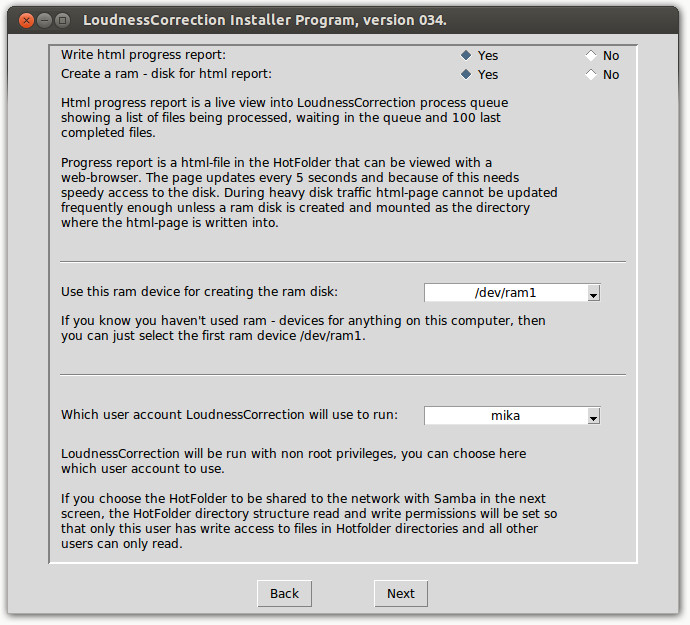
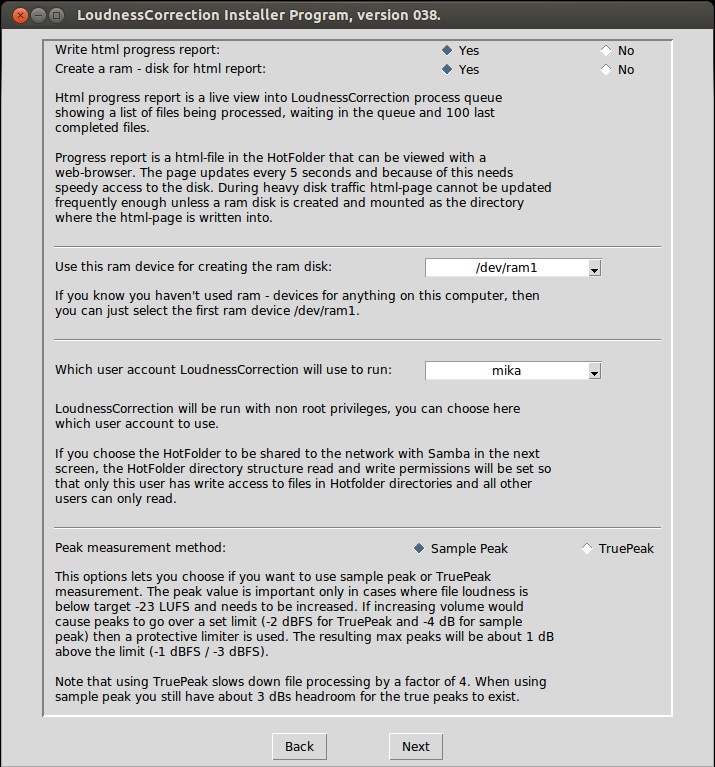
Documentation -------------- - Added the new window in the installer that lets user select between sample peak and TruePeak measurement.
LoudnessCorrection Version 154
-------------------------------
- Bugfix: Added printing of peak_measurement method In debug - mode. I forgot to do that in the last version :)

installer 038
--------------
- Bugfix: LoudnessCorrection.py was not installed to /usr/bin/ if user after installation navigated back through windows.
- Added the possibility to select between sample peak and TruePeak measurement.

diff --git a/Documentation/FreeLCS_1.0_User_Manual.html b/Documentation/FreeLCS_1.0_User_Manual.html
@@ -302,13 +302,32 @@
         the ram disk. You need to change the default setting of "/dev/ram1" here
         only if you know you have created other ram-disks for other purposes and
         you know that device "/dev/ram1" is already used for something else.</li>
-      <li>Lastly you can select which user account is used when loudness
+      <li>Then you can select which user account is used when loudness
         correction and heartbeat checker programs are run. These two programs
         are always run as an "unprivileged" user. If you only created one user,
         then this user is used by default.<br>
       </li>
-      <li>If you are not sure what to select on this window then just leave the
-        defaults as they are and click "Next". Defaults are ok for most users :)<br>
+      <li>If you are not sure what to select for this options then just leave
+        the defaults as they are. Defaults are ok for most users :)</li>
+      <li>The last option lets you select which peak measurement method you want
+        to use: sample peak or TruePeak. TruePeak is a method that takes into
+        account invisible peaks that might exist between samples. These peaks
+        can go above the maximum allowed 0 dBFS and cause distortion in AD -
+        converters. TruePeak measurement finds these hidden peaks and gives the
+        true maximum peak value in a file. TruePeak calculation slows down file
+        processing by a factor of 4. Sample peak simply finds the highest sample
+        value in the file and uses that as the highest peak value.<br>
+      </li>
+      <li>The peak value is only important when loudness of a file falls below
+        the target -23 LUFS level and needs to be increased. There is the
+        possibility that peaks will distort after the gain correction. In these
+        cases a protective limiter is used. If peak value after gain correction
+        would go over a set limit (-4 dBFS for sample peaks and -2 dBFS for
+        TruePeaks), then the file is limited before gain correction. The
+        resulting peaks after gain correction will be max. 1 dB higher than the
+        set limit resulting in max -3 dBFS / -1 dBFS peaks. Note that if you use
+        sample peak, there will always be 3 dB headroom for the invisible peaks
+        to exist and distortion is very unlikely.<br>
       </li>
     </ul>
     <p><br>

diff --git a/Documentation/index.html b/Documentation/index.html
@@ -22,7 +22,9 @@
     libebur128, gnuplot, FFmpeg, sox).<br>
     <br>
     <h3><strong>News:</strong></h3>
-    <strong>2012.07.08:</strong> First public release of FreeLCS 1.00.<br>
+    <strong>2012.07.16:</strong> Bugfix release 1.01. Also added the possibility
+    to select between sample peak and TruePeak measurement in the installer.<strong><br>
+      2012.07.08:</strong> First public release of FreeLCS 1.00.<br>
     <br>
     <h2> <a id="Features">Features</a></h2>
     <ul>
@@ -61,8 +63,8 @@
     <img title="Example: Loudness history graphics" src="Pictures/Beethoven-Coriolan_Overture_Op_62.wav-Loudness_Results_Graphics.jpg"><br>
     <br>
     <br>
-    <a href="http://sourceforge.net/projects/freelcs/">Click here to go to the
-      download page (User manual is included in the download)</a><br>
+    <a href="https://sourceforge.net/projects/freelcs/files/">Click here to go
+      to the download page (User manual is included in the download)</a><br>
     <br>
     <a href="FreeLCS_1.0_User_Manual.html">Click here to go to the User manual.</a><br>
     <br>

diff --git a/installer.py b/installer.py
@@ -26,7 +26,7 @@ import email.mime.text
 import email.mime.multipart
 import tempfile
 
-version = '037'
+version = '038'
 
 ###################################
 # Function definitions start here #
@@ -1036,10 +1036,11 @@ def install_init_scripts_and_config_files(*args):
 	global ffmpeg_path
 	global gnuplot_path
 	global all_ip_addresses_of_the_machine
+	global peak_measuring_method
 	
 	put_email_details_in_a_dictionary()
 
-	all_settings_dict = {'language' : language.get(), 'english' : english, 'finnish' : finnish, 'target_path' : target_path.get(), 'hotfolder_path' : hotfolder_path.get(), \
+	all_settings_dict = { 'language' : language.get(), 'english' : english, 'finnish' : finnish, 'target_path' : target_path.get(), 'hotfolder_path' : hotfolder_path.get(), \
 	'directory_for_temporary_files' : directory_for_temporary_files.get(), 'directory_for_results' : directory_for_results.get(), 'delay_between_directory_reads' : int(delay_between_directory_reads), \
 	'number_of_processor_cores' : int(number_of_processor_cores.get()), 'file_expiry_time' : int(file_expiry_time), 'natively_supported_file_formats' : natively_supported_file_formats, \
 	'libebur128_path' : loudness_path, 'ffmpeg_output_format' : ffmpeg_output_format, 'silent' : silent, 'write_html_progress_report' : true_false_string[write_html_progress_report.get()], \
@@ -1047,7 +1048,7 @@ def install_init_scripts_and_config_files(*args):
 	'directory_for_error_logs' : directory_for_error_logs.get(), 'send_error_messages_to_logfile' : send_error_messages_to_logfile, 'heartbeat' : true_false_string[heartbeat.get()], \
 	'heartbeat_file_name' : heartbeat_file_name, 'heartbeat_write_interval' : int(heartbeat_write_interval), 'email_sending_details' : email_sending_details, \
 	'send_error_messages_by_email' : true_false_string[send_error_messages_by_email.get()], 'where_to_send_error_messages' : where_to_send_error_messages, \
-	'config_file_created_by_installer_version' : version}
+	'config_file_created_by_installer_version' : version, 'peak_measuring_method' : peak_measuring_method }
 
 	# Get the total number of items in settings dictionary and save the number in the dictionary. The number can be used for degugging settings.
 	number_of_all_items_in_dictionary = len(all_settings_dict)
@@ -1076,6 +1077,7 @@ def install_init_scripts_and_config_files(*args):
 		print()
 		print('natively_supported_file_formats =', all_settings_dict['natively_supported_file_formats'])
 		print('ffmpeg_output_format =', all_settings_dict['ffmpeg_output_format'])
+		print('peak_measuring_method =', all_settings_dict['peak_measuring_method'])
 		print()	
 		print('silent =', all_settings_dict['silent'])
 		print()	
@@ -1550,6 +1552,10 @@ def install_init_scripts_and_config_files(*args):
 	
 	# Our scripts were installed successfully, update the label the to tell it to the user.
 	loudnesscorrection_scripts_are_installed.set('Installed')
+	
+	# Disable Back - button since navigating back to the previous window and back here would delete /usr/bin/LoudnessCorrection.py. The previous window copies this file to test our root - password and then deletes it.
+	seventh_window_back_button['state'] = 'disabled'
+	
 	return(False) # False means 'No errors happened everything was installed successfully :)'.
 	
 def test_if_root_password_is_valid(*args):
@@ -2513,6 +2519,21 @@ def get_ip_addresses_of_the_host_machine():
 		print('stderr:', stderr)
 		print('all_ip_addresses_of_the_machine =', all_ip_addresses_of_the_machine)
 
+def set_sample_peak_measurement_method(*args):
+	
+	global peak_measuring_method
+	
+	if sample_peak.get() == True:
+		peak_measuring_method = '--peak=sample'
+	else:
+		peak_measuring_method = '--peak=true'
+	
+	if debug == True:
+		true_false_string = [False, True]
+		print()
+		print('sample_peak =', true_false_string[sample_peak.get()])
+		print('peak_measuring_method =', peak_measuring_method)
+
 
 ###############################
 # Main program starts here :) #
@@ -2560,6 +2581,9 @@ root_password_was_not_accepted_message = tkinter.StringVar()
 use_samba  = tkinter.BooleanVar()
 use_samba.set(True)
 web_page_name = tkinter.StringVar()
+sample_peak = tkinter.BooleanVar()
+sample_peak.set(True)
+
 # Define variables that will be used as the text content on seventh window. The variables can hold one of two values: 'Installed' / 'Not Installed'.
 ffmpeg_is_installed = tkinter.StringVar()
 sox_is_installed = tkinter.StringVar()
@@ -2632,6 +2656,7 @@ eight_window_textwidget_text_content  = ''
 all_installation_messages = ''
 all_ip_addresses_of_the_machine = []
 all_ip_addresses_of_the_machine = get_ip_addresses_of_the_host_machine()
+peak_measuring_method = '--peak=sample'
 
 # Get the directory the os uses for storing temporary files.
 directory_for_os_temporary_files = tempfile.gettempdir()
@@ -3139,7 +3164,7 @@ twentyfirst_label.grid(column=0, row=3, pady=10, padx=10, columnspan=4, sticky=(
 
 # Define a horizontal line to space out groups of rows.
 fourth_window_separator_1 = tkinter.ttk.Separator(fourth_frame_child_frame_1, orient=tkinter.HORIZONTAL)
-fourth_window_separator_1.grid(column=0, row=4, padx=10, pady=20, columnspan=5, sticky=(tkinter.W, tkinter.E))
+fourth_window_separator_1.grid(column=0, row=4, padx=10, pady=10, columnspan=5, sticky=(tkinter.W, tkinter.E))
 
 # Ram device name.
 fourth_window_label_3 = tkinter.ttk.Label(fourth_frame_child_frame_1, text='Use this ram device for creating the ram disk:')
@@ -3162,7 +3187,7 @@ fourth_window_label_4.grid(column=0, row=6, columnspan=4, pady=10, padx=10, stic
 
 # Define a horizontal line to space out groups of rows.
 fourth_window_separator_1 = tkinter.ttk.Separator(fourth_frame_child_frame_1, orient=tkinter.HORIZONTAL)
-fourth_window_separator_1.grid(column=0, row=7, padx=10, pady=20, columnspan=5, sticky=(tkinter.W, tkinter.E))
+fourth_window_separator_1.grid(column=0, row=7, padx=10, pady=10, columnspan=5, sticky=(tkinter.W, tkinter.E))
 
 # Choose which username LoudnessCorrection will run under.
 fourth_window_label_5 = tkinter.ttk.Label(fourth_frame_child_frame_1, text='Which user account LoudnessCorrection will use to run:')
@@ -3182,11 +3207,27 @@ username_combobox.grid(column=3, row=8, columnspan=2, pady=10, padx=10, sticky=(
 fourth_window_label_7 = tkinter.ttk.Label(fourth_frame_child_frame_1, wraplength=text_wrap_length_in_pixels, text='LoudnessCorrection will be run with non root privileges, you can choose here which user account to use.\n\nIf you choose the HotFolder to be shared to the network with Samba in the next screen, the HotFolder directory structure read and write permissions will be set so that only this user has write access to files in Hotfolder directories and all other users can only read.')
 fourth_window_label_7.grid(column=0, row=9, columnspan=4, pady=10, padx=10, sticky=(tkinter.W, tkinter.N))
 
+# Define a horizontal line to space out groups of rows.
+fourth_window_separator_1 = tkinter.ttk.Separator(fourth_frame_child_frame_1, orient=tkinter.HORIZONTAL)
+fourth_window_separator_1.grid(column=0, row=10, padx=10, pady=10, columnspan=5, sticky=(tkinter.W, tkinter.E))
+
+# Peak metering settings
+fourth_window_label_1 = tkinter.ttk.Label(fourth_frame_child_frame_1, text='Peak measurement method:')
+fourth_window_label_1.grid(column=0, row=11, columnspan=2, padx=10, sticky=(tkinter.W, tkinter.N))
+sample_peak_radiobutton = tkinter.ttk.Radiobutton(fourth_frame_child_frame_1, text='Sample Peak', variable=sample_peak, value=True, command=set_sample_peak_measurement_method)
+true_peak_radiobutton = tkinter.ttk.Radiobutton(fourth_frame_child_frame_1, text='TruePeak', variable=sample_peak, value=False, command=set_sample_peak_measurement_method)
+sample_peak_radiobutton.grid(column=3, row=11, padx=15)
+true_peak_radiobutton.grid(column=4, row=11, padx=15)
+
+# Some explanatory texts.
+peak_measurement_label = tkinter.ttk.Label(fourth_frame_child_frame_1, wraplength=text_wrap_length_in_pixels, text='This options lets you choose if you want to use sample peak or TruePeak measurement. The peak value is important only in cases where file loudness is below target -23 LUFS and needs to be increased. If increasing volume would cause peaks to go over a set limit (-2 dBFS for TruePeak and -4 dB for sample peak) then a protective limiter is used. The resulting max peaks will be about 1 dB above the limit (-1 dBFS / -3 dBFS).\n\nNote that using TruePeak slows down file processing by a factor of 4. When using sample peak you still have about 3 dBs headroom for the true peaks to exist.')
+peak_measurement_label.grid(column=0, row=12, pady=10, padx=10, columnspan=4, sticky=(tkinter.W, tkinter.N))
+
 # Create the buttons for the frame
 fourth_window_back_button = tkinter.Button(fourth_frame, text = "Back", command = call_third_frame_on_top)
 fourth_window_back_button.grid(column=1, row=1, padx=30, pady=10, sticky=(tkinter.E, tkinter.N))
-
 fourth_window_next_button = tkinter.Button(fourth_frame, text = "Next", command = call_fifth_frame_on_top)
+
 # If we were no successful in getting the list of ram device names from the os and create_ram_disk = True, disable the next button.
 if (len(list_of_ram_devices) == 0) and (create_a_ram_disk_for_html_report.get() == True):
 	fourth_window_next_button['state'] = 'disabled'

diff --git a/LoudnessCorrection.py b/LoudnessCorrection.py
@@ -34,7 +34,7 @@ import email.mime.multipart
 import pickle
 import math
 
-version = '153'
+version = '154'
 
 ########################################################################################################################################################################################
 # All default values for settings are defined below. These variables define directory poll interval, number of processor cores to use, language of messages and file expiry time, etc. #
@@ -1266,6 +1266,7 @@ def debug_variables_read_from_configfile():
 		print()
 		print('natively_supported_file_formats =', natively_supported_file_formats)
 		print('ffmpeg_output_format =', ffmpeg_output_format)
+		print('peak_measuring_method =', all_settings_dict['peak_measuring_method'])
 		print()	
 		print('silent =', silent)
 		print()	
